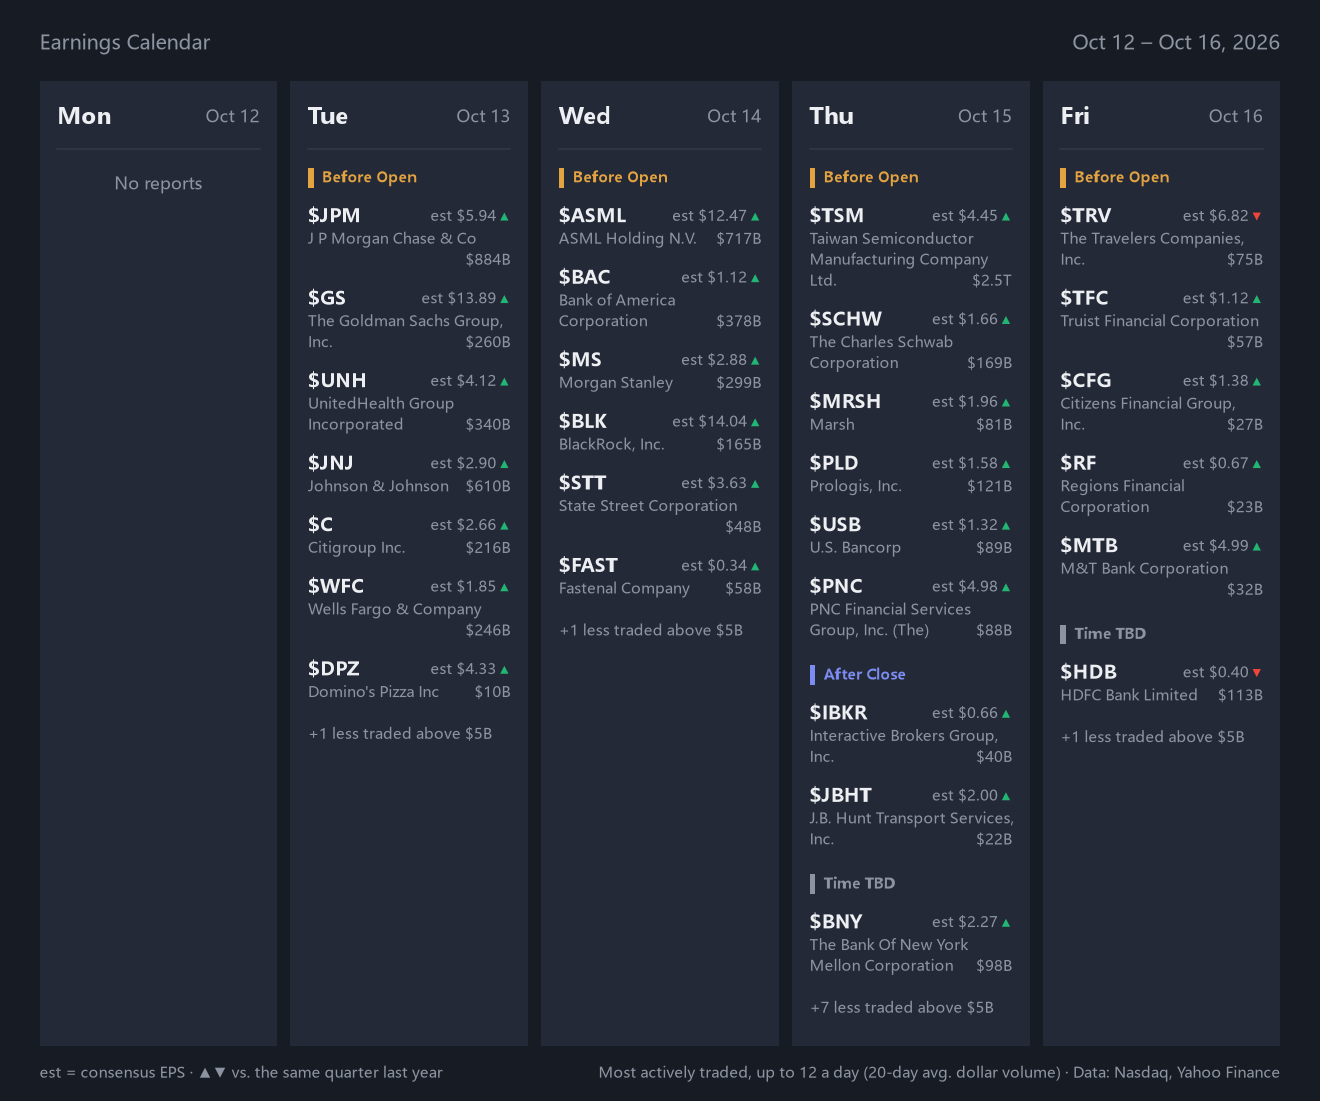
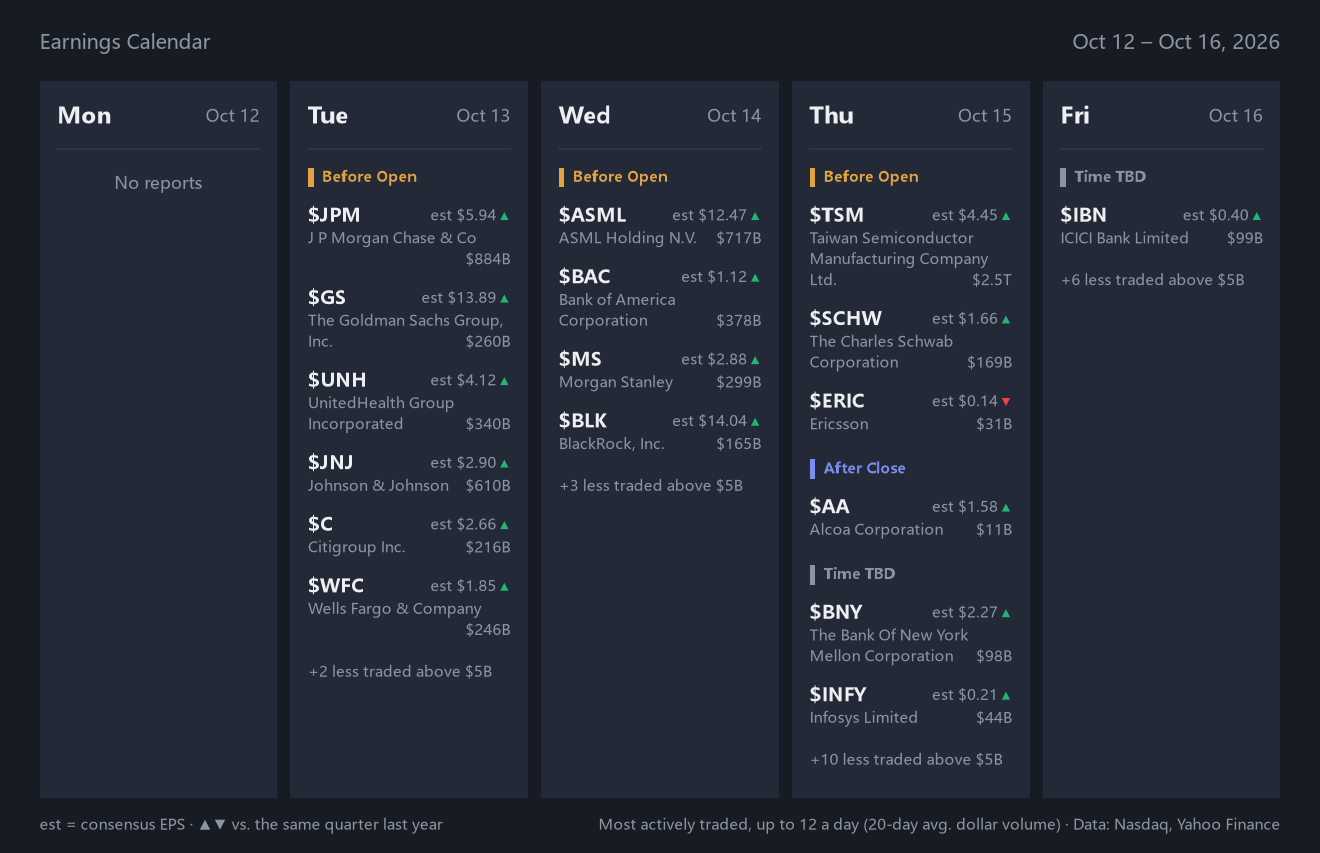
Earnings calendar: raise the volume floor and add a watchlist
- Average daily dollar volume floor goes from $200M to $500M, so fewer
  little-known names appear in quiet weeks
- A watchlist (Infosys, Ericsson, ICICI Bank, Alcoa) is always shown:
  well-known companies that trade mostly abroad look thinly traded here

diff --git a/market_pulse/earnings_calendar.py b/market_pulse/earnings_calendar.py
@@ -32,7 +32,11 @@ MAX_COMPANIES_PER_DAY = 12
 DOLLAR_VOLUME_DAYS = 20
 # In a quiet week fewer than 12 companies report on a day, so the per-day
 # limit never bites; this floor is what keeps thinly traded names off then.
-MIN_DOLLAR_VOLUME = 200_000_000
+MIN_DOLLAR_VOLUME = 500_000_000
+# Always shown when they report, whatever their size or trading volume.
+# Trading activity cannot tell a household name that mostly trades abroad
+# (Infosys, Ericsson, ICICI Bank) from an obscure one, so those are listed here.
+WATCHLIST = {"INFY", "ERIC", "IBN", "AA"}
 # The 20-day average costs one request per company, so each day is first cut
 # down to this many candidates using a single session's volume.
 SHORTLIST_PER_DAY = 30
@@ -79,17 +83,18 @@ def get_next_week_range(today=None):
 # ============================================================
 
 def eligible_companies(companies):
-    return [c for c in companies if c["market_cap"] >= MIN_MARKET_CAP]
+    return [c for c in companies if c["market_cap"] >= MIN_MARKET_CAP or c["symbol"] in WATCHLIST]
 
 
 def shortlist(companies, one_day_volume):
-    """The day's candidates for the 20-day lookup: the most traded in the latest session.
+    """The day's candidates for the 20-day lookup: the watchlist, then the most
+    traded in the latest session.
 
     Without any volume data (the screener request failed) it falls back to the largest.
     """
     ranked = sorted(
         eligible_companies(companies),
-        key=lambda c: (one_day_volume.get(c["symbol"], 0.0), c["market_cap"]),
+        key=lambda c: (c["symbol"] in WATCHLIST, one_day_volume.get(c["symbol"], 0.0), c["market_cap"]),
         reverse=True,
     )
     return ranked[:SHORTLIST_PER_DAY]
@@ -98,13 +103,15 @@ def shortlist(companies, one_day_volume):
 def select_companies(companies, average_volume, one_day_volume=None):
     """The day's most actively traded companies, and how many others cleared the cap floor.
 
-    Returns (shown, hidden). shown holds at most MAX_COMPANIES_PER_DAY items,
-    most traded first, each with its "dollar_volume". A company's 20-day
-    average is used when known and the latest session's volume otherwise.
-    Companies known to trade less than MIN_DOLLAR_VOLUME a day are left out.
-    A company with no volume data at all is kept and ranked last by market
-    cap, so that losing the volume sources degrades to a largest-first list
-    instead of an empty one.
+    Returns (shown, hidden). shown is ordered most traded first, each item
+    with its "dollar_volume": the 20-day average when known, the latest
+    session's volume otherwise.
+
+    Watchlist companies are always shown. The rest fill the remaining places
+    up to MAX_COMPANIES_PER_DAY, and are left out when known to trade less
+    than MIN_DOLLAR_VOLUME a day. A company with no volume data at all is
+    kept and ranked last by market cap, so that losing the volume sources
+    degrades to a largest-first list instead of an empty one.
     """
     one_day_volume = one_day_volume or {}
     eligible = eligible_companies(companies)
@@ -113,16 +120,21 @@ def select_companies(companies, average_volume, one_day_volume=None):
         symbol = company["symbol"]
         return average_volume.get(symbol) or one_day_volume.get(symbol, 0.0)
 
-    ranked = sorted(
-        (c for c in eligible if not 0 < activity(c) < MIN_DOLLAR_VOLUME),
-        key=lambda c: (activity(c), c["market_cap"]),
+    def rank(company):
+        return activity(company), company["market_cap"]
+
+    watched = [c for c in eligible if c["symbol"] in WATCHLIST]
+    others = sorted(
+        (c for c in eligible if c["symbol"] not in WATCHLIST and not 0 < activity(c) < MIN_DOLLAR_VOLUME),
+        key=rank,
         reverse=True,
     )
+    chosen = watched + others[:max(0, MAX_COMPANIES_PER_DAY - len(watched))]
     shown = [
         {**c, "ticker": f"${c['symbol']}", "dollar_volume": activity(c)}
-        for c in ranked[:MAX_COMPANIES_PER_DAY]
+        for c in sorted(chosen, key=rank, reverse=True)
     ]
-    return shown, len(eligible) - len(shown)
+    return shown, max(0, len(eligible) - len(shown))
 
 
 def load_week(monday):
@@ -146,7 +158,7 @@ def load_week(monday):
         candidates_today = shortlist(companies, one_day_volume)
         shown, _ = select_companies(candidates_today, average_volume, one_day_volume)
         grouped[day] = shown
-        hidden[day] = len(eligible_companies(companies)) - len(shown)
+        hidden[day] = max(0, len(eligible_companies(companies)) - len(shown))
     return grouped, hidden
 
 

diff --git a/tests/test_earnings_calendar.py b/tests/test_earnings_calendar.py
@@ -61,6 +61,7 @@ class SelectCompaniesTest(unittest.TestCase):
     def test_thinly_traded_companies_are_left_out_even_in_a_quiet_week(self):
         companies = [company("JPM", 884), company("HOMB", 5.5), company("BUD", 148)]
         volume = {"JPM": 2.9 * BILLION, "HOMB": 30 * self.MILLION, "BUD": ec.MIN_DOLLAR_VOLUME - 1}
+        self.assertEqual(ec.MIN_DOLLAR_VOLUME, 500 * self.MILLION)
         shown, hidden = ec.select_companies(companies, volume)
         self.assertEqual([c["ticker"] for c in shown], ["$JPM"])
         self.assertEqual(hidden, 2)
@@ -72,6 +73,30 @@ class SelectCompaniesTest(unittest.TestCase):
         self.assertEqual(len(shown), ec.MAX_COMPANIES_PER_DAY)
         self.assertEqual(shown[0]["ticker"], "$S39")
         self.assertEqual(hidden, 40 - ec.MAX_COMPANIES_PER_DAY)
+
+    def test_watchlist_is_always_shown_whatever_its_size_or_volume(self):
+        with mock.patch.object(ec, "WATCHLIST", {"INFY", "TINY"}):
+            companies = [company("JPM", 884), company("INFY", 44), company("TINY", 1), company("COLD", 300)]
+            volume = {"JPM": 2.9 * BILLION, "INFY": 0.2 * BILLION, "TINY": 0.01 * BILLION, "COLD": 0.1 * BILLION}
+            shown, hidden = ec.select_companies(companies, volume)
+        self.assertEqual([c["ticker"] for c in shown], ["$JPM", "$INFY", "$TINY"])
+        self.assertEqual(hidden, 1)
+
+    def test_watchlist_takes_places_from_the_least_traded_on_a_busy_day(self):
+        with mock.patch.object(ec, "WATCHLIST", {"QUIET"}):
+            companies = [company(f"S{i}", 100) for i in range(40)] + [company("QUIET", 20)]
+            volume = {f"S{i}": (i + 1) * BILLION for i in range(40)}
+            volume["QUIET"] = 0.1 * BILLION
+            shown, _ = ec.select_companies(companies, volume)
+            listed = ec.shortlist(companies, volume)
+        self.assertEqual(len(shown), ec.MAX_COMPANIES_PER_DAY)
+        self.assertEqual(shown[-1]["ticker"], "$QUIET")
+        self.assertEqual(shown[0]["ticker"], "$S39")
+        # It must also survive the shortlist, or its 20-day volume is never looked up.
+        self.assertEqual(listed[0]["symbol"], "QUIET")
+
+    def test_default_watchlist(self):
+        self.assertEqual(ec.WATCHLIST, {"INFY", "ERIC", "IBN", "AA"})
 
     def test_latest_session_volume_stands_in_for_a_missing_average(self):
         companies = [company("AVG", 50), company("ONEDAY", 50)]

diff --git a/README.md b/README.md
@@ -182,7 +182,8 @@ Only `truth_social` uses `hashes` and `etag`. `seen_feargreed.json` instead stor
 - Runs on Fridays and covers Monday to Friday of the **following** week, leaving a week to prepare.
 - Data comes from the public API behind nasdaq.com's earnings calendar: five requests a week, no key, and market cap, reporting time and consensus EPS in the same response.
 - Companies are chosen by how actively they trade, not by size: each day shows up to 12 companies ranked by 20-day average daily dollar volume. That keeps closely followed mid caps (Coinbase, Robinhood, MicroStrategy) and drops large caps that barely trade in the US (Shell, TotalEnergies, AB InBev). The 20-day average smooths out one-off spikes.
-- Two floors apply: a USD 5 billion market cap, and USD 200 million of average daily dollar volume, which is what filters a quiet week when fewer than 12 companies report on a day. A line under each column says how many others above the cap floor were left out.
+- Two floors apply: a USD 5 billion market cap, and USD 500 million of average daily dollar volume, which is what filters a quiet week when fewer than 12 companies report on a day. A line under each column says how many others above the cap floor were left out.
+- A short `WATCHLIST` in the module is always shown regardless of the floors. Trading activity cannot tell a household name that mostly trades abroad (Infosys, Ericsson, ICICI Bank) from an obscure one, so those are named explicitly.
 - The 20-day average costs one Yahoo Finance request per company, so each day is first cut to 30 candidates using a single session's volume from Nasdaq's stock screener (one request for the whole market). If the volume sources are unavailable, the list falls back to the largest companies.
 - Each company shows its consensus EPS estimate with an arrow for whether that is above or below the same quarter last year.
 - Company names are always shown in full, wrapped onto a second or third line when needed, so rows vary in height.
